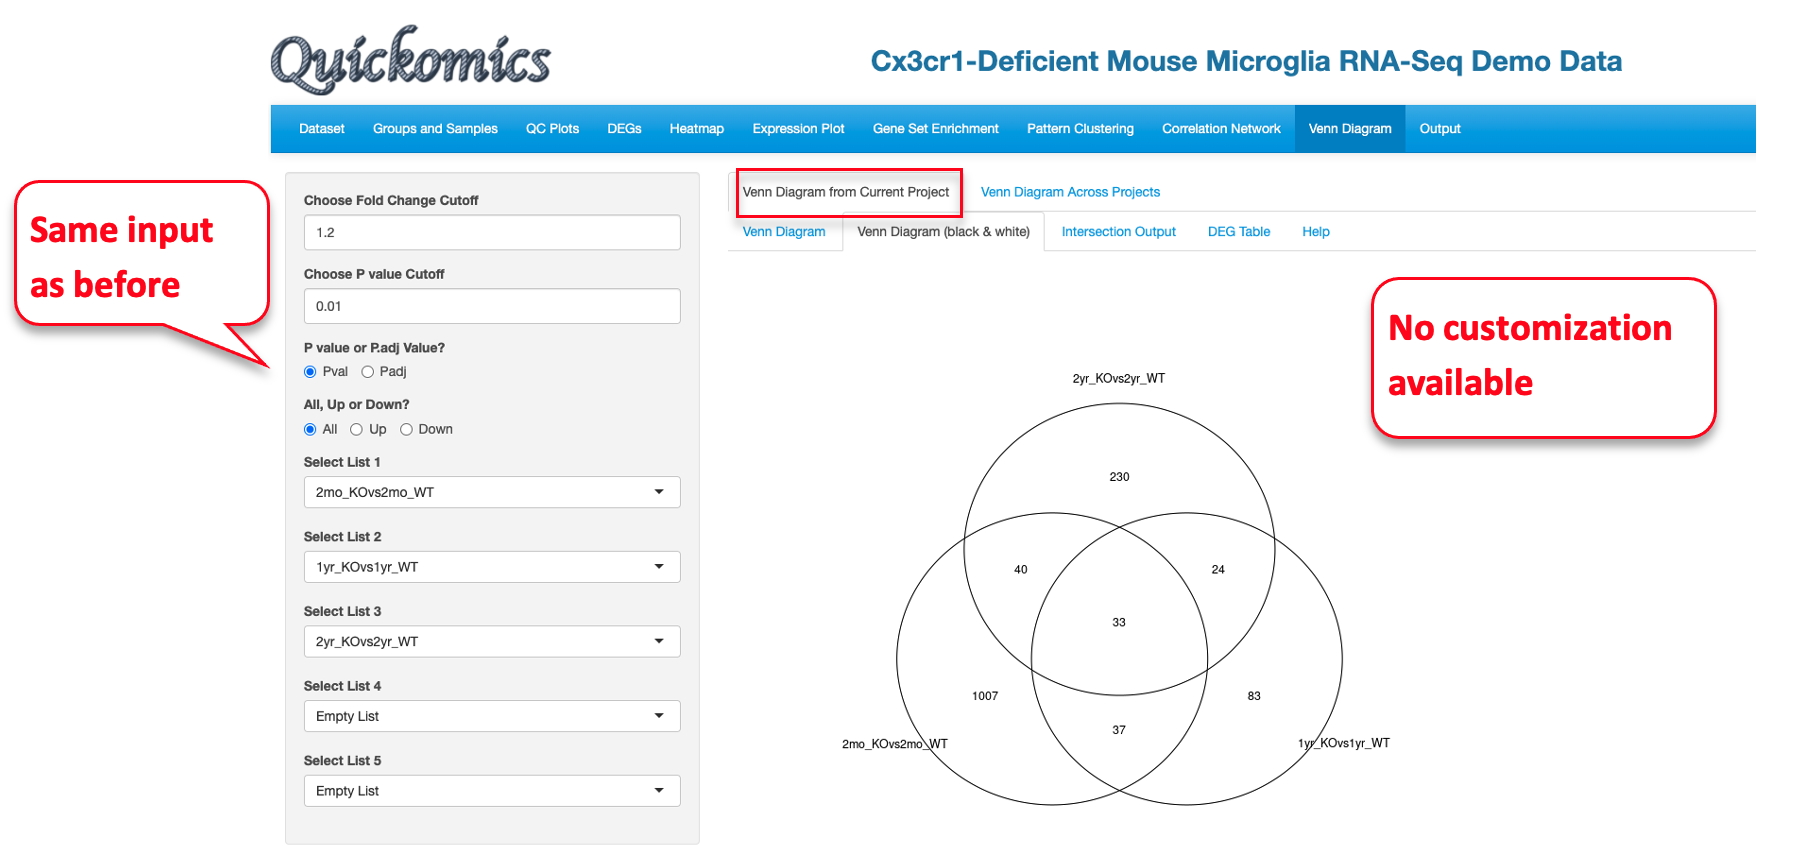
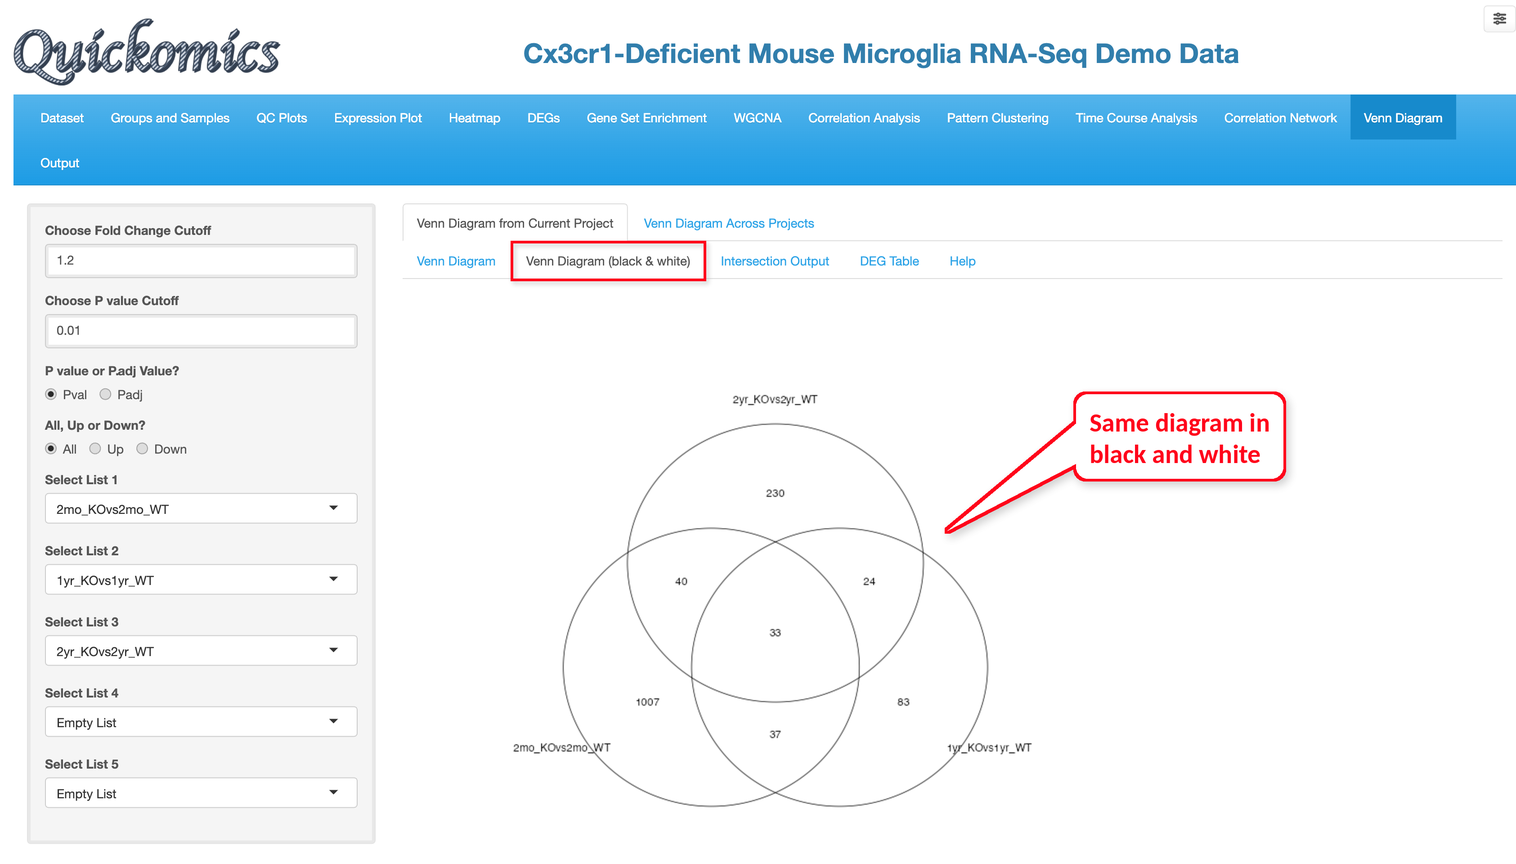
Venn Diagram chapter: rewrite with new figures, right panel options, new Intersection Output table with multi-row copy

diff --git a/tutorial/docs/venn-diagram-module.html b/tutorial/docs/venn-diagram-module.html
@@ -214,10 +214,10 @@
             <section class="normal" id="section-">
 <div id="venn-diagram-module" class="section level1 hasAnchor" number="11">
 <h1><span class="header-section-number">Chapter 11</span> Venn Diagram Module<a href="venn-diagram-module.html#venn-diagram-module" class="anchor-section" aria-label="Anchor link to header"></a></h1>
-<p>This module in Quickomics helps Users identify DEGs/DEPs that are common or unique to different comparisons within one project. Users have the option to either visualize these DEGs/DEPs as a highly customizable Venn Diagram or download a table with the gene names.</p>
+<p>This module in Quickomics helps Users identify DEGs/DEPs that are common or unique to different comparisons. The DEGs/DEPs are shown as a Venn diagram that can be customized, and as tables that list the genes. The tabs of “Venn Diagram from Current Project” are described below: Venn Diagram (Section 11.1), Venn Diagram (black &amp; white) (11.2), Intersection Output (11.3) and DEG Table (11.4). The “Venn Diagram Across Projects” tab works in a similar way with comparisons from different projects.</p>
 <div id="venn-diagram" class="section level2 hasAnchor" number="11.1">
 <h2><span class="header-section-number">11.1</span> Venn Diagram<a href="venn-diagram-module.html#venn-diagram" class="anchor-section" aria-label="Anchor link to header"></a></h2>
-<p>To view the DEGs/DEPs as a Venn Diagram, Users have the option to see the intersection of DEGs/DEPs for up to 5 different comparisons. Users can also use all DEGs/DEPs or restrict it to the ones that are Up or Down regulated.</p>
+<p>To view the DEGs/DEPs as a Venn Diagram, Users have the option to select the fold change and P value cutoffs, whether to use all DEGs/DEPs or only the Up or Down regulated ones, and up to 5 comparisons, each with its own color. In the example below, we used a fold change cutoff of 1.2 and a P value cutoff of 0.01, and selected the three KO vs WT comparisons, 2mo_KOvs2mo_WT, 1yr_KOvs1yr_WT and 2yr_KOvs2yr_WT. The panel on the right customizes the diagram, for example its title, the opacity of the colors, the lines and the fonts. Long comparison names can be wrapped onto several lines with “Wrap Labels At (characters)”, or shown as a legend below the diagram. “Save to output” saves the diagram to the Output module (Chapter 15).</p>
 <p><a href="Figures/FigureS11.1_1.png"><img src="Figures/FigureS11.1_1.png" /></a></p>
 <p>In this example there were 33 DEGs that were identified in the three comparisons probed here, which represent the set of genes altered by the KO genotype at each of the time points.</p>
 </div>
@@ -228,12 +228,12 @@
 </div>
 <div id="intersection-output" class="section level2 hasAnchor" number="11.3">
 <h2><span class="header-section-number">11.3</span> Intersection Output<a href="venn-diagram-module.html#intersection-output" class="anchor-section" aria-label="Anchor link to header"></a></h2>
-<p>This tab lets the User view the individual genes that were present in the Venn Diagram and the distribution of the genes in intersection regions.</p>
+<p>This tab lists the genes in each region of the Venn diagram, one row per region. The “Intersection” column gives the comparisons that share the genes, one name per line; “Count” gives the number of genes, and “Genes” lists them. Long lists show the first 50 genes; click “Show all” to see the rest. “Label name” in the left panel sets whether the genes are shown by gene name, accession number or UniqueID. To copy genes, click one or more rows; the “Copy Selected Gene List” button then copies the genes of all selected rows, without duplicates, so that they can be pasted into other modules. In the example below, we selected the 40 genes found in 2mo_KOvs2mo_WT and 2yr_KOvs2yr_WT and the 33 genes found in all three comparisons, 73 genes together.</p>
 <p><a href="Figures/FigureS11.3_1.png"><img src="Figures/FigureS11.3_1.png" /></a></p>
 </div>
 <div id="deg-table" class="section level2 hasAnchor" number="11.4">
 <h2><span class="header-section-number">11.4</span> DEG Table<a href="venn-diagram-module.html#deg-table" class="anchor-section" aria-label="Anchor link to header"></a></h2>
-<p>This tab lets the Users view the Fold Change and p value of the genes identified in the Venn Diagram in the comparisons being queried.</p>
+<p>This tab lets the Users view the Fold Change and p value of the genes identified in the Venn Diagram in the comparisons being queried. The table includes every gene found in at least one of the selected comparisons, 1,454 genes in this example, with its log fold change, P value and adjusted P value in each comparison. The table can be downloaded with the CSV and Excel buttons, or saved with “Save to output”.</p>
 <p><a href="Figures/FigureS11.4_1.png"><img src="Figures/FigureS11.4_1.png" /></a></p>
 
 </div>
